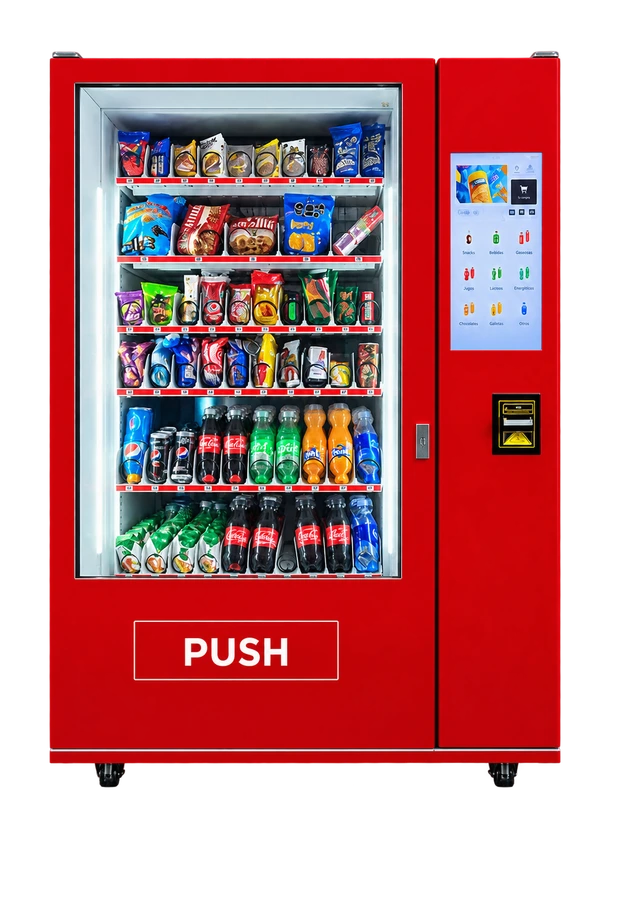
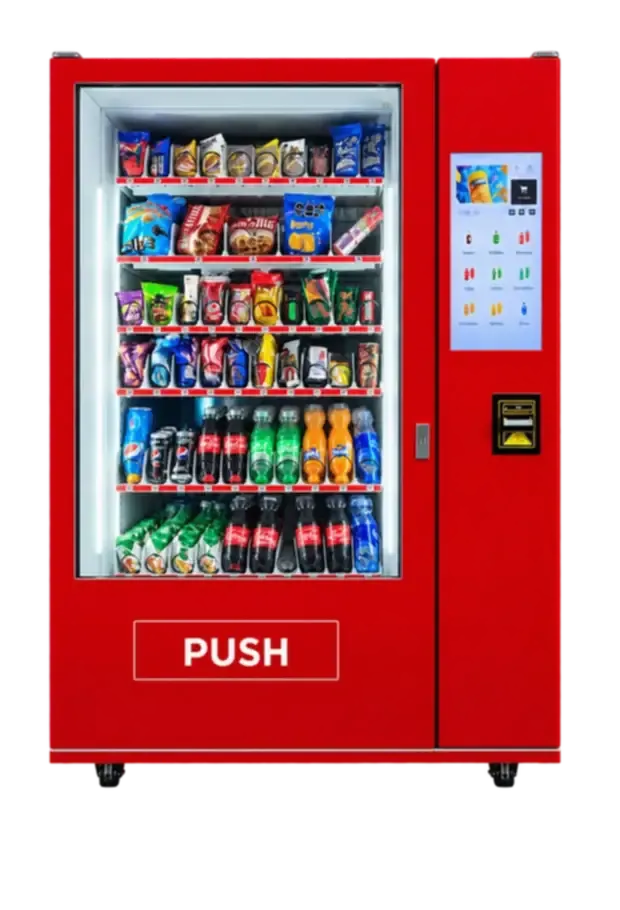
Update V18

diff --git a/src/components/sections/CasoRealCase.tsx b/src/components/sections/CasoRealCase.tsx
@@ -1,5 +1,12 @@
 import Image, { type StaticImageData } from "next/image";
-import { Camera, MapPin, Music2, ArrowUpRight, Play, type LucideIcon } from "lucide-react";
+import {
+  Camera,
+  MapPin,
+  Music2,
+  ArrowUpRight,
+  Play,
+  type LucideIcon,
+} from "lucide-react";
 import { AudioPlayer } from "@/components/ui/AudioPlayer";
 import { Button } from "@/components/ui/Button";
 import { Container } from "@/components/ui/Container";
@@ -111,7 +118,9 @@ export function CasoRealCase({
             {heading}
           </h2>
           {subtitle && (
-            <p className="mt-2 text-base font-medium text-ink-300">{subtitle}</p>
+            <p className="mt-2 text-base font-medium text-ink-300">
+              {subtitle}
+            </p>
           )}
         </Reveal>
 
@@ -130,12 +139,20 @@ export function CasoRealCase({
                       rel="noopener noreferrer"
                       className="inline-flex items-center gap-1.5 rounded-sm text-xs font-medium text-ink-300 underline decoration-transparent underline-offset-2 transition-colors duration-200 hover:text-red-400 hover:decoration-red-400/50"
                     >
-                      <MapPin size={14} className="text-red-500" aria-hidden="true" />
+                      <MapPin
+                        size={14}
+                        className="text-red-500"
+                        aria-hidden="true"
+                      />
                       {location}
                     </a>
                   ) : (
                     <span className="inline-flex items-center gap-1.5 text-xs font-medium text-ink-300">
-                      <MapPin size={14} className="text-red-500" aria-hidden="true" />
+                      <MapPin
+                        size={14}
+                        className="text-red-500"
+                        aria-hidden="true"
+                      />
                       {location}
                     </span>
                   ))}
@@ -147,7 +164,9 @@ export function CasoRealCase({
                 </p>
               )}
 
-              <p className="mt-5 text-[15px] leading-relaxed text-ink-300">{body}</p>
+              <p className="mt-5 text-[15px] leading-relaxed text-ink-300">
+                {body}
+              </p>
 
               <p className="mt-5 text-center text-base font-semibold text-paper sm:text-left">
                 {ctaQuestion}
@@ -180,7 +199,12 @@ export function CasoRealCase({
                       aria-label={`${audioPlaceholder.label} — próximamente`}
                       className="flex h-10 w-10 shrink-0 items-center justify-center rounded-full bg-red-500/15 text-red-500 disabled:cursor-not-allowed disabled:opacity-60"
                     >
-                      <Play size={16} className="ml-0.5" fill="currentColor" aria-hidden="true" />
+                      <Play
+                        size={16}
+                        className="ml-0.5"
+                        fill="currentColor"
+                        aria-hidden="true"
+                      />
                     </button>
                     <div className="min-w-0 flex-1">
                       <p className="truncate text-xs font-semibold text-paper">
@@ -206,7 +230,7 @@ export function CasoRealCase({
               // Photo stands alone — no caption or stat, just the shot
               // itself, stretched to match the left card's height (audio
               // player included) so both columns read as the same size.
-              <div className="relative h-full w-full overflow-hidden rounded-card border border-white/10">
+              <div className="relative aspect-4/5 w-full overflow-hidden rounded-card border border-white/10 lg:aspect-auto lg:h-full">
                 <Image
                   src={photo.src}
                   alt={photo.alt}
@@ -216,80 +240,84 @@ export function CasoRealCase({
                 />
               </div>
             ) : (
-            <div
-              className={
-                hasSocials
-                  ? "flex h-full flex-col justify-between rounded-card border border-white/10 bg-white/[0.03] p-6 sm:p-8"
-                  : "flex h-full flex-col items-center justify-center rounded-card border border-white/10 bg-white/[0.03] p-6 text-center sm:p-8"
-              }
-            >
-              {hasSocials && (
-                <div>
-                  <p className="text-xs font-semibold tracking-wide text-ink-300 uppercase">
-                    Seguí el día a día
-                  </p>
-                  <div className="mt-4 space-y-3">
-                    {socials.map((social) => {
-                      const Icon = SOCIAL_ICONS[social.icon];
-                      return (
-                        <a
-                          key={social.platform}
-                          href={social.url}
-                          target="_blank"
-                          rel="noopener noreferrer"
-                          className="group flex items-center gap-4 rounded-btn border border-white/10 bg-white/[0.02] p-4 transition-colors duration-200 hover:border-red-500/30 hover:bg-red-500/5"
-                        >
-                          <span className="flex h-11 w-11 shrink-0 items-center justify-center rounded-xl bg-red-500/15 text-red-500">
-                            {Icon ? <Icon size={20} aria-hidden="true" /> : null}
-                          </span>
-                          <span className="min-w-0 flex-1">
-                            <span className="block text-sm font-semibold text-paper">
-                              {social.platform}
+              <div
+                className={
+                  hasSocials
+                    ? "flex h-full flex-col justify-between rounded-card border border-white/10 bg-white/[0.03] p-6 sm:p-8"
+                    : "flex h-full flex-col items-center justify-center rounded-card border border-white/10 bg-white/[0.03] p-6 text-center sm:p-8"
+                }
+              >
+                {hasSocials && (
+                  <div>
+                    <p className="text-xs font-semibold tracking-wide text-ink-300 uppercase">
+                      Seguí el día a día
+                    </p>
+                    <div className="mt-4 space-y-3">
+                      {socials.map((social) => {
+                        const Icon = SOCIAL_ICONS[social.icon];
+                        return (
+                          <a
+                            key={social.platform}
+                            href={social.url}
+                            target="_blank"
+                            rel="noopener noreferrer"
+                            className="group flex items-center gap-4 rounded-btn border border-white/10 bg-white/[0.02] p-4 transition-colors duration-200 hover:border-red-500/30 hover:bg-red-500/5"
+                          >
+                            <span className="flex h-11 w-11 shrink-0 items-center justify-center rounded-xl bg-red-500/15 text-red-500">
+                              {Icon ? (
+                                <Icon size={20} aria-hidden="true" />
+                              ) : null}
                             </span>
-                            <span className="block truncate text-sm text-ink-300">
-                              {social.handle}
+                            <span className="min-w-0 flex-1">
+                              <span className="block text-sm font-semibold text-paper">
+                                {social.platform}
+                              </span>
+                              <span className="block truncate text-sm text-ink-300">
+                                {social.handle}
+                              </span>
                             </span>
-                          </span>
-                          <ArrowUpRight
-                            size={16}
-                            className="shrink-0 text-ink-300 transition-colors group-hover:text-red-500"
-                            aria-hidden="true"
-                          />
-                        </a>
-                      );
-                    })}
+                            <ArrowUpRight
+                              size={16}
+                              className="shrink-0 text-ink-300 transition-colors group-hover:text-red-500"
+                              aria-hidden="true"
+                            />
+                          </a>
+                        );
+                      })}
+                    </div>
                   </div>
-                </div>
-              )}
+                )}
 
-              {stat && (
-                <div
-                  className={
-                    hasSocials
-                      ? "mt-6 flex items-center gap-4 border-t border-white/10 pt-6"
-                      : "flex flex-col items-center gap-3"
-                  }
-                >
-                  <div className="shrink-0 text-center">
-                    <p className="font-display text-2xl font-bold text-paper">{stat.count}</p>
-                    <p className="mt-0.5 text-[10px] font-semibold tracking-wide text-red-400 uppercase">
-                      {stat.label}
-                    </p>
+                {stat && (
+                  <div
+                    className={
+                      hasSocials
+                        ? "mt-6 flex items-center gap-4 border-t border-white/10 pt-6"
+                        : "flex flex-col items-center gap-3"
+                    }
+                  >
+                    <div className="shrink-0 text-center">
+                      <p className="font-display text-2xl font-bold text-paper">
+                        {stat.count}
+                      </p>
+                      <p className="mt-0.5 text-[10px] font-semibold tracking-wide text-red-400 uppercase">
+                        {stat.label}
+                      </p>
+                    </div>
+                    {stat.quote && (
+                      <p
+                        className={
+                          hasSocials
+                            ? "text-xs leading-relaxed text-ink-300 italic"
+                            : "max-w-[32ch] text-sm leading-relaxed text-ink-300 italic"
+                        }
+                      >
+                        “{stat.quote}”
+                      </p>
+                    )}
                   </div>
-                  {stat.quote && (
-                    <p
-                      className={
-                        hasSocials
-                          ? "text-xs leading-relaxed text-ink-300 italic"
-                          : "max-w-[32ch] text-sm leading-relaxed text-ink-300 italic"
-                      }
-                    >
-                      “{stat.quote}”
-                    </p>
-                  )}
-                </div>
-              )}
-            </div>
+                )}
+              </div>
             )}
           </Reveal>
         </div>

diff --git a/src/components/ui/Vending360.tsx b/src/components/ui/Vending360.tsx
@@ -14,6 +14,8 @@ const MOMENTUM_STOP_THRESHOLD = 0.03;
 const RETURN_TO_FRONT_DELAY_MS = 5000;
 const RETURN_TO_FRONT_DURATION_MS = 700;
 
+const POSTER_SRC = "/vending-360/frame-00-hd.webp";
+
 function frameSrc(index: number) {
   return `/vending-360/frame-${String(index).padStart(2, "0")}.webp`;
 }
@@ -34,6 +36,13 @@ interface Vending360Props {
 // renders as a real <Image priority> so there's always something for LCP
 // to grab even before any JS runs; the canvas silently takes over once
 // frames are loaded, with no visible swap (same pixels).
+//
+// frame-00.webp is deliberately degraded (blurred/recompressed) to match
+// the softness of frames 1–73 — those are lower-quality renders and only
+// have this one angle, so frame 0 has to match them or spinning past it
+// shows an obvious quality "cut". The crisp source lives separately as
+// frame-00-hd.webp, shown only at rest (POSTER_SRC below) — hidden the
+// instant a drag starts, faded back in once it settles back at the front.
 export function Vending360({ className, label }: Vending360Props) {
   const stageRef = useRef<HTMLDivElement>(null);
   const canvasRef = useRef<HTMLCanvasElement>(null);
@@ -52,6 +61,7 @@ export function Vending360({ className, label }: Vending360Props) {
   const [ready, setReady] = useState(false);
   const [dragging, setDragging] = useState(false);
   const [interacted, setInteracted] = useState(false);
+  const [atFront, setAtFront] = useState(true);
 
   useEffect(() => {
     let cancelled = false;
@@ -109,6 +119,7 @@ export function Vending360({ className, label }: Vending360Props) {
         } else {
           currentIndexRef.current = 0;
           draw();
+          setAtFront(true);
         }
       }
       requestAnimationFrame(step);
@@ -157,6 +168,7 @@ export function Vending360({ className, label }: Vending360Props) {
       draggingRef.current = true;
       setDragging(true);
       setInteracted(true);
+      setAtFront(false);
       cancelReturn();
       lastXRef.current = x;
       lastTRef.current = performance.now();
@@ -185,6 +197,9 @@ export function Vending360({ className, label }: Vending360Props) {
       if (draggingRef.current) return;
       if (Math.abs(velocityRef.current) < MOMENTUM_STOP_THRESHOLD) {
         velocityRef.current = 0;
+        if (mod(Math.round(currentIndexRef.current), FRAME_COUNT) === 0) {
+          setAtFront(true);
+        }
         scheduleReturn();
         return;
       }
@@ -222,6 +237,7 @@ export function Vending360({ className, label }: Vending360Props) {
       if (e.key !== "ArrowLeft" && e.key !== "ArrowRight") return;
       e.preventDefault();
       setInteracted(true);
+      setAtFront(false);
       cancelReturn();
       const step =
         e.key === "ArrowRight" ? KEYBOARD_STEP_FRAMES : -KEYBOARD_STEP_FRAMES;
@@ -294,6 +310,21 @@ export function Vending360({ className, label }: Vending360Props) {
         className={cn(
           "pointer-events-none absolute inset-0 mx-auto drop-shadow-[0_20px_40px_rgba(215,38,56,0.25)] transition-opacity duration-300",
           ready ? "opacity-100" : "opacity-0",
+        )}
+      />
+      {/* The crisp version, layered on top — only while at rest at the
+          front. Hides instantly on interaction (no transition-delay lag
+          against the visitor's own finger) so the matching-quality canvas
+          frame underneath is what actually spins. */}
+      <Image
+        src={POSTER_SRC}
+        alt=""
+        aria-hidden="true"
+        fill
+        sizes="(min-width: 1024px) 270px, 60vw"
+        className={cn(
+          "pointer-events-none object-contain drop-shadow-[0_20px_40px_rgba(215,38,56,0.25)] transition-opacity duration-150",
+          ready && atFront ? "opacity-100" : "opacity-0",
         )}
       />
       {!interacted && (
